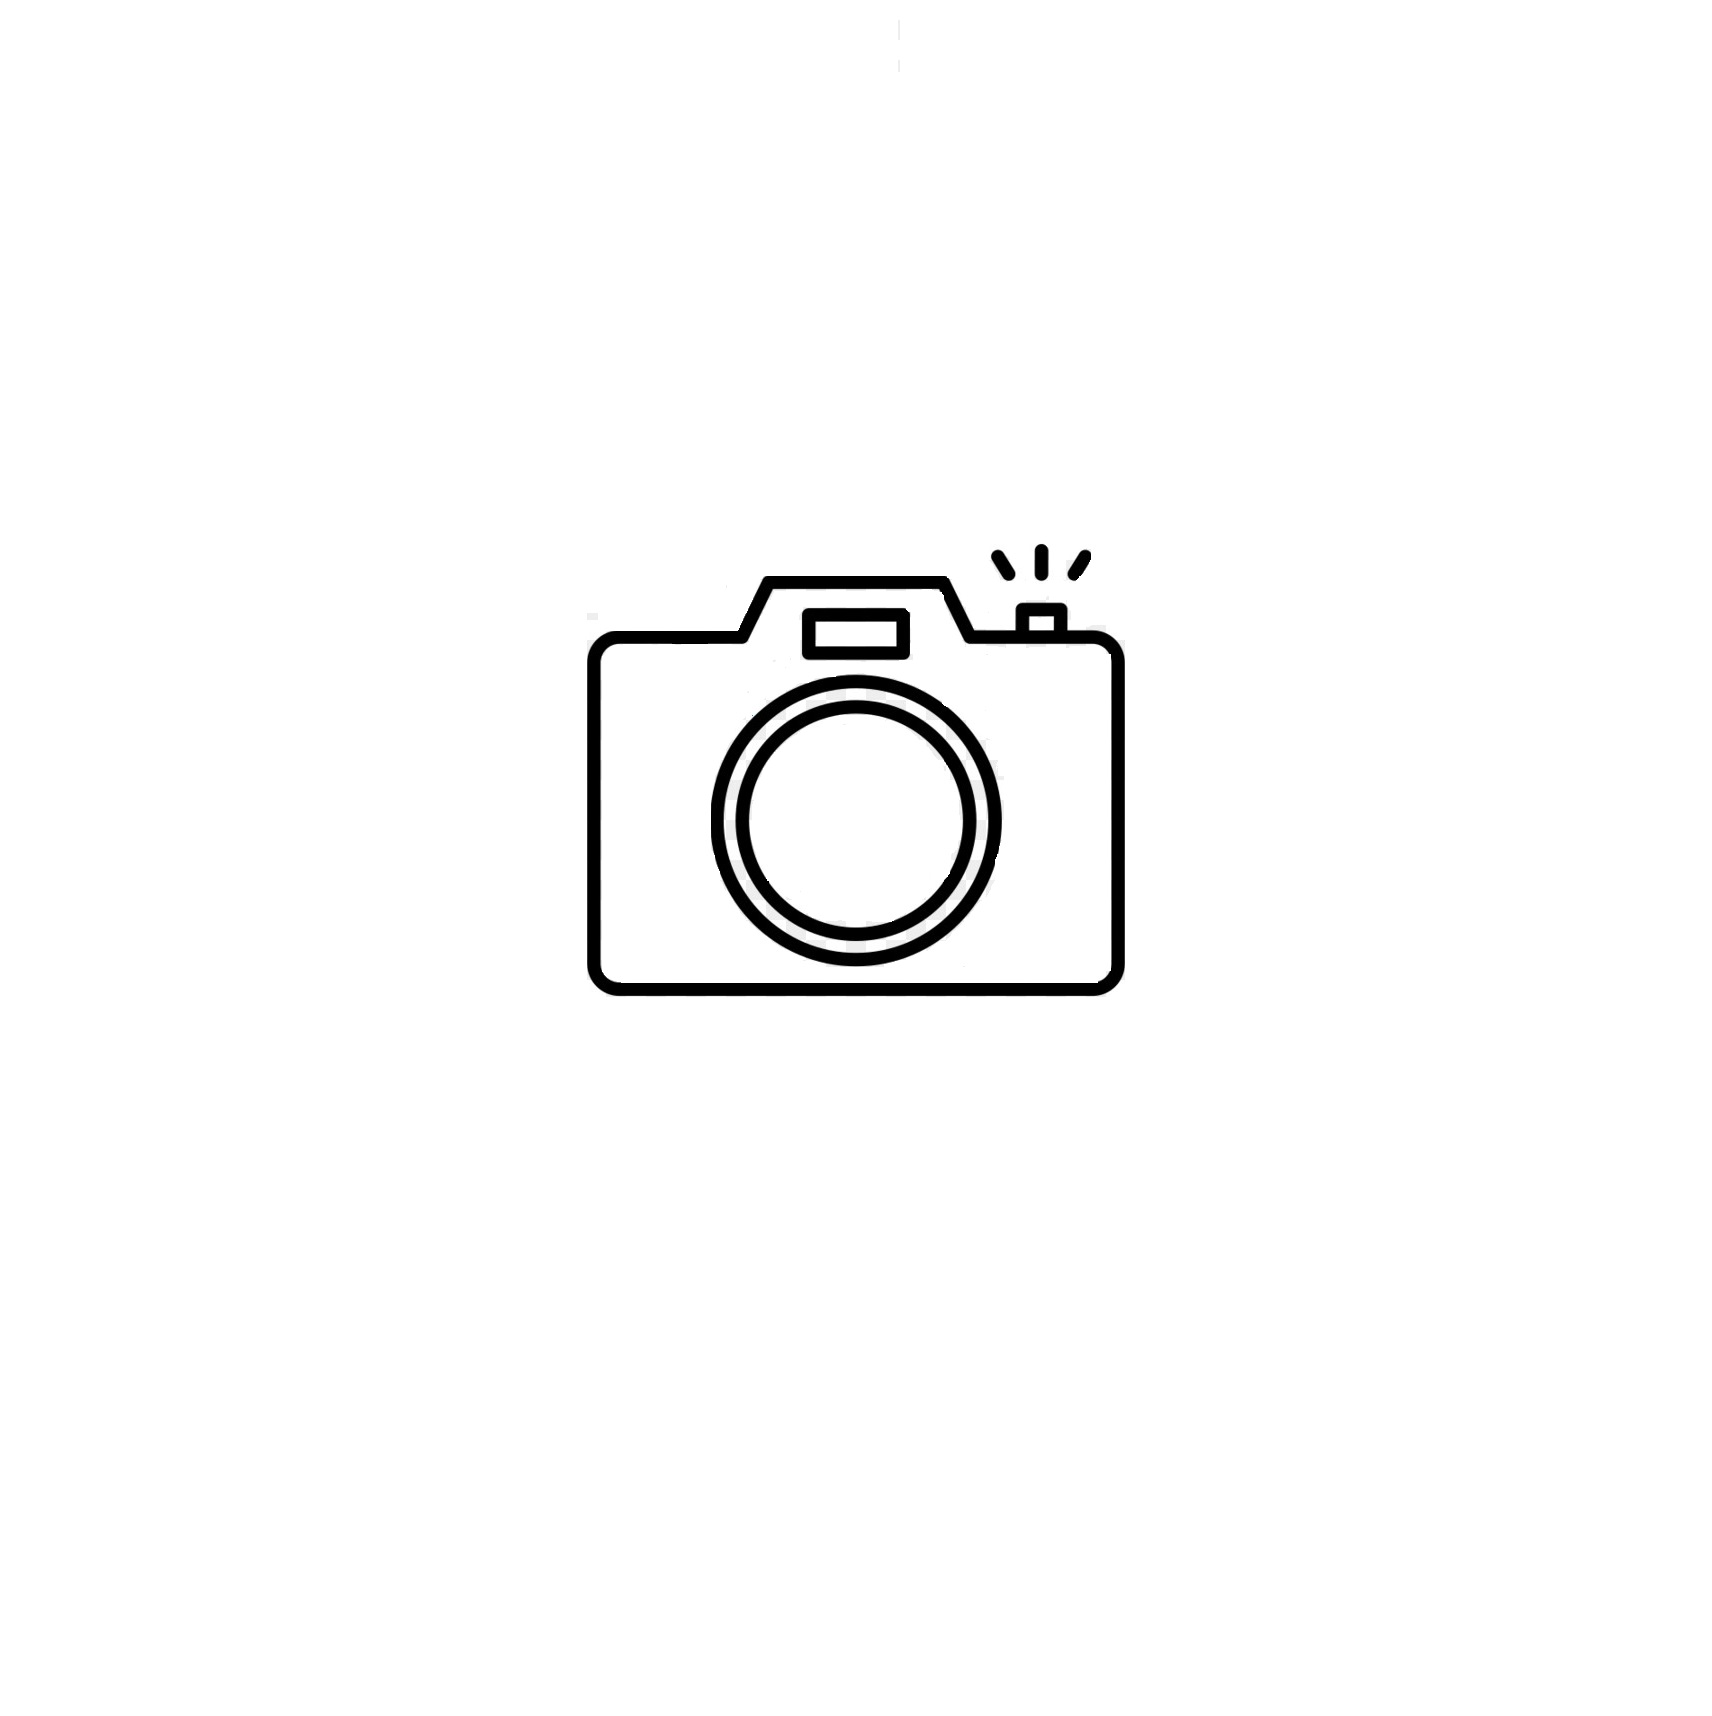
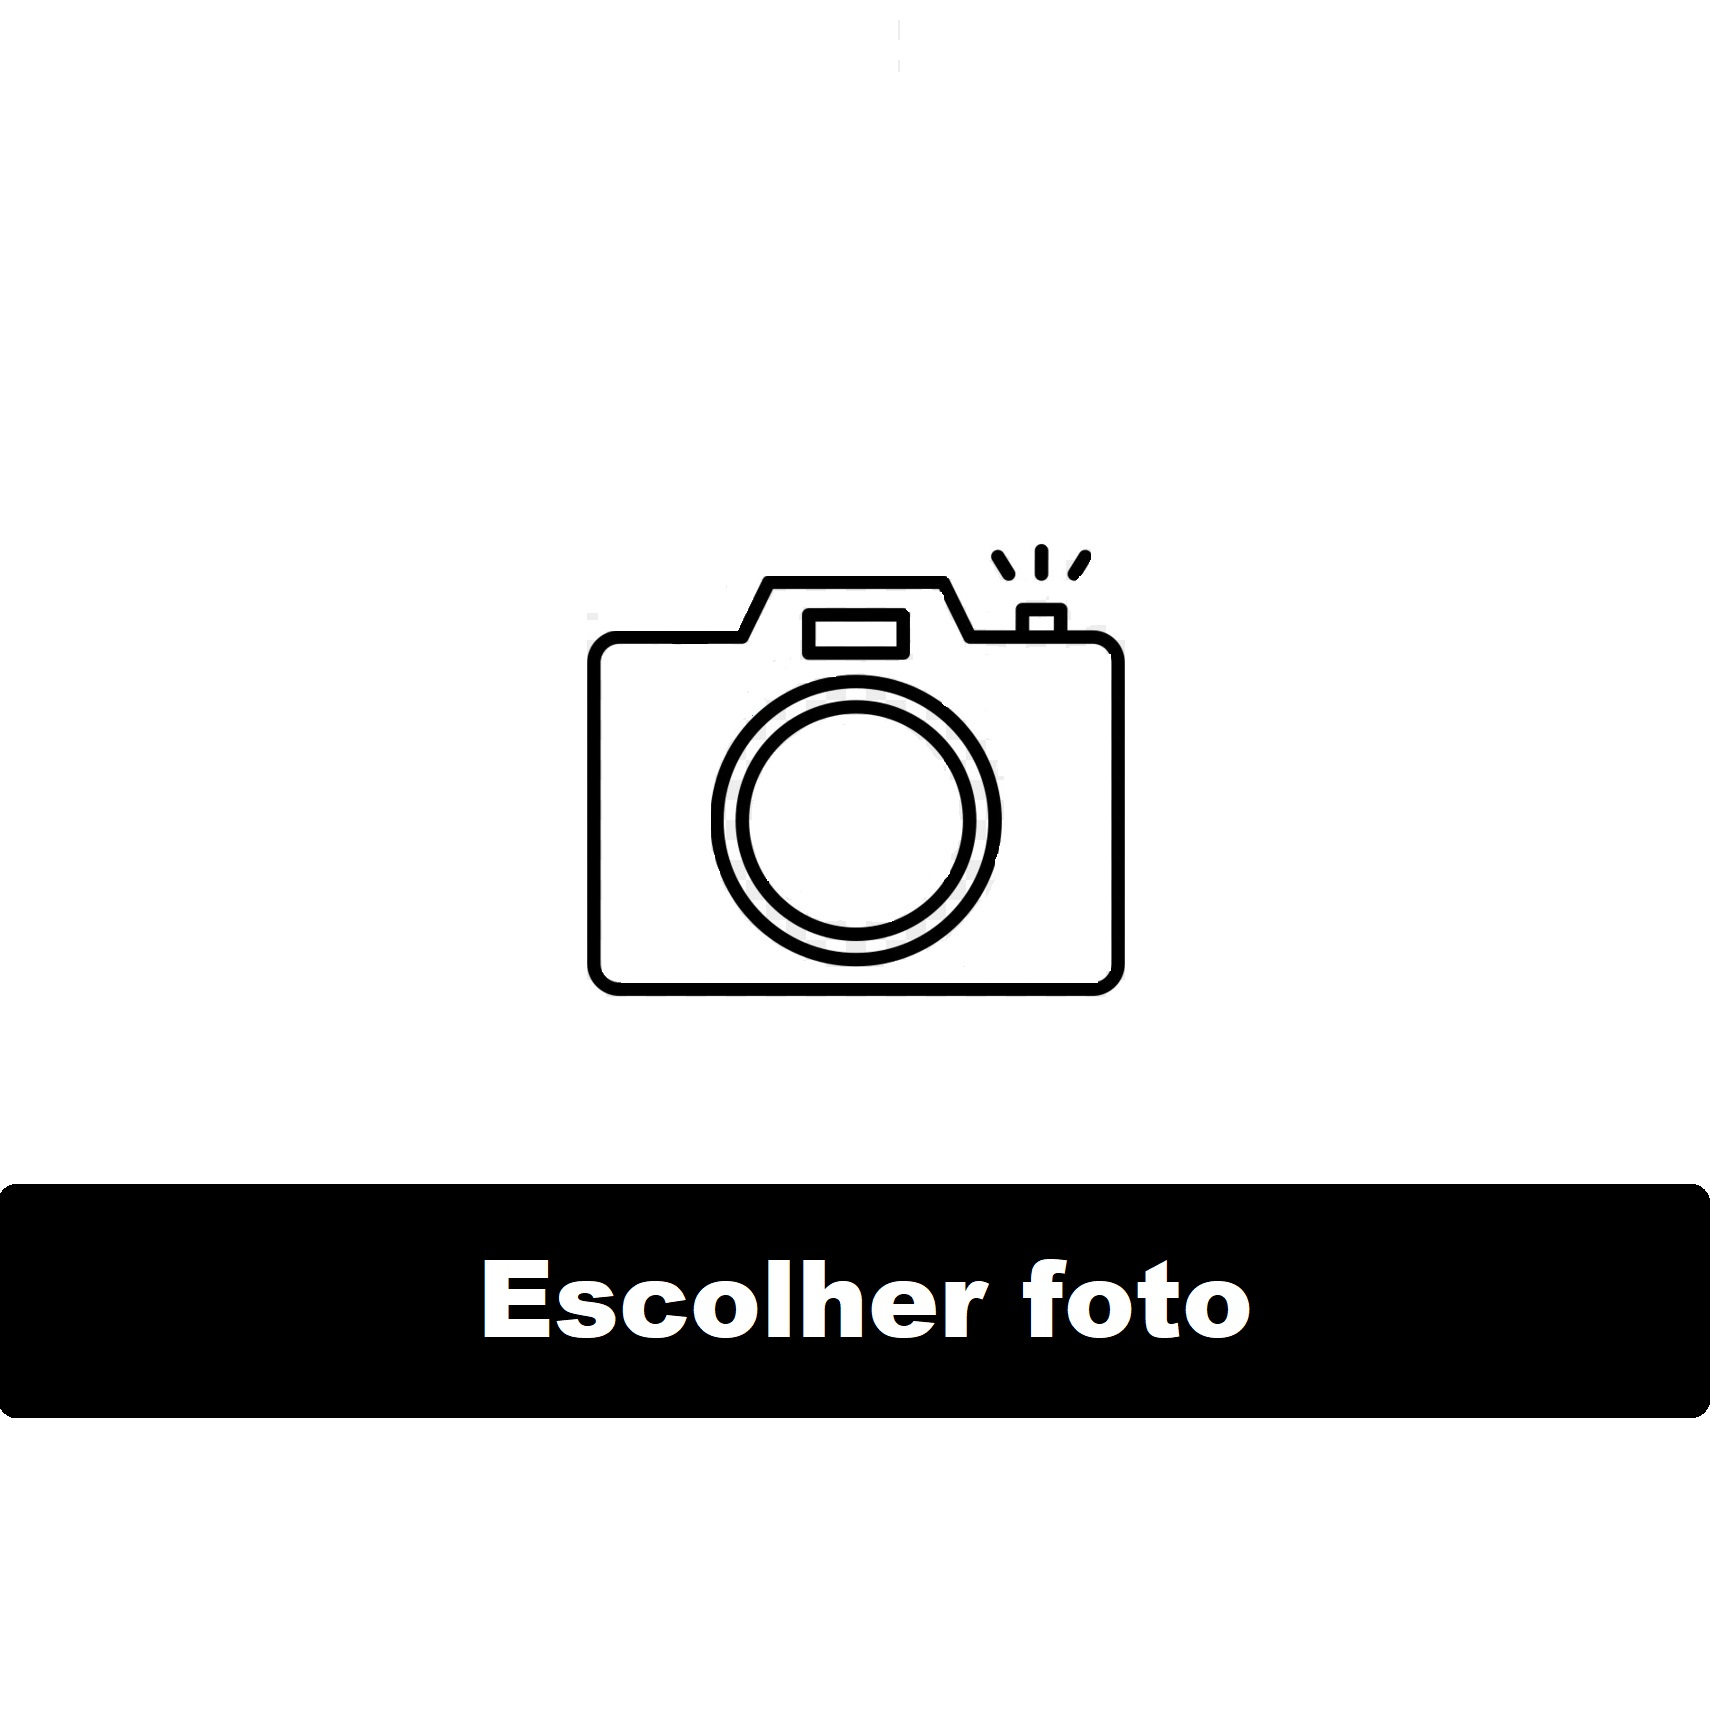
OH

Changed region(s): [[0.0, 0.6795, 1.0, 0.8339]]

diff --git a/media/css/style.css b/media/css/style.css
@@ -2066,14 +2066,11 @@ footer .credits {
   position: absolute;
   opacity: 0;
   transition: all 0.4s;
-  /*margin-top: -370px !important;*/
+  padding-right: 15px;
 }
 
-.profile-img .file input {
-  position: absolute;
-  opacity: 0;
-  right: 0;
-  top: 0;
+.input_foto {
+  display: none !important;
 }
 
 

diff --git a/media/js/perfil.js b/media/js/perfil.js
@@ -6,6 +6,7 @@ function foto() {
 
 }
 
+
 function tirar_foto() {
 
 	var foto = document.querySelector('.camera');

diff --git a/classes/perfil.class.php b/classes/perfil.class.php
@@ -116,17 +116,19 @@ class Perfil extends Site {
 		if (!isset($_POST['Fuma']) || $_POST['Fuma'] == $_SESSION['dados']['Fuma']) {
 			if ($_SESSION['dados']['Fuma'] == NULL) {
 				$this->Fuma = "DEFAULT";
-			}			
-			$this->Fuma = $_SESSION['dados']['Fuma'];
+			}else {			
+				$this->Fuma = $_SESSION['dados']['Fuma'];
+			}
 		} else {
-			$this->Fuma = $_POST['Fuma'];			
+			$this->Fuma = $_POST['Fuma'];	
 		}
 
 		if (!isset($_POST['Aceita_fumar']) || $_POST['Aceita_fumar'] == $_SESSION['dados']['Aceita_fumar']) {
 			if ($_SESSION['dados']['Aceita_fumar'] == NULL) {
 				$this->Aceita_fumar = "DEFAULT";
+			}else {
+				$this->Aceita_fumar = $_SESSION['dados']['Aceita_fumar'];
 			}
-			$this->Aceita_fumar = $_SESSION['dados']['Aceita_fumar'];
 		} else {
 			$this->Aceita_fumar = $_POST['Aceita_fumar'];
 		}
@@ -134,8 +136,9 @@ class Perfil extends Site {
 		if (!isset($_POST['Bebe']) || $_POST['Bebe'] == $_SESSION['dados']['Bebe']) {
 			if ($_SESSION['dados']['Bebe'] == NULL) {
 				$this->Bebe = "DEFAULT";
+			}else {
+				$this->Bebe = $_SESSION['dados']['Bebe'];
 			}
-			$this->Bebe = $_SESSION['dados']['Bebe'];
 		} else {
 			$this->Bebe = $_POST['Bebe'];
 		}
@@ -143,8 +146,9 @@ class Perfil extends Site {
 		if (!isset($_POST['Aceita_beber']) || $_POST['Aceita_beber'] == $_SESSION['dados']['Aceita_beber']) {
 			if ($_SESSION['dados']['Aceita_beber'] == NULL) {
 				$this->Aceita_beber = "DEFAULT";
+			}else {
+				$this->Aceita_beber = $_SESSION['dados']['Aceita_beber'];
 			}
-			$this->Aceita_beber = $_SESSION['dados']['Aceita_beber'];
 		} else {
 			$this->Aceita_beber = $_POST['Aceita_beber'];
 		}
@@ -152,8 +156,9 @@ class Perfil extends Site {
 		if (!isset($_POST['Tem_animal']) || $_POST['Tem_animal'] == $_SESSION['dados']['Tem_animal']) {
 			if ($_SESSION['dados']['Tem_animal'] == NULL) {
 				$this->Tem_animal = "DEFAULT";
+			}else {
+				$this->Tem_animal = $_SESSION['dados']['Tem_animal'];
 			}
-			$this->Tem_animal = $_SESSION['dados']['Tem_animal'];
 		} else {
 			$this->Tem_animal = $_POST['Tem_animal'];
 		}
@@ -161,8 +166,9 @@ class Perfil extends Site {
 		if (!isset($_POST['Aceita_animais']) || $_POST['Aceita_animais'] == $_SESSION['dados']['Aceita_animais']) {
 			if ($_SESSION['dados']['Aceita_animais'] == NULL) {
 				$this->Aceita_animais = "DEFAULT";
+			}else {
+				$this->Aceita_animais = $_SESSION['dados']['Aceita_animais'];
 			}
-			$this->Aceita_animais = $_SESSION['dados']['Aceita_animais'];
 		} else {
 			$this->Aceita_animais = $_POST['Aceita_animais'];
 		}
@@ -170,8 +176,9 @@ class Perfil extends Site {
 		if (!isset($_POST['Trabalha']) || $_POST['Trabalha'] == $_SESSION['dados']['Trabalha']) {
 			if ($_SESSION['dados']['Trabalha'] == NULL) {
 				$this->Trabalha = "DEFAULT";
+			}else {
+				$this->Trabalha = $_SESSION['dados']['Trabalha'];
 			}
-			$this->Trabalha = $_SESSION['dados']['Trabalha'];
 		} else {
 			$this->Trabalha = $_POST['Trabalha'];
 		}
@@ -179,8 +186,9 @@ class Perfil extends Site {
 		if (!isset($_POST['Estuda']) || $_POST['Estuda'] == $_SESSION['dados']['Estuda']) {
 			if ($_SESSION['dados']['Estuda'] == NULL) {
 				$this->Estuda = "DEFAULT";
+			}else {
+				$this->Estuda = $_SESSION['dados']['Estuda'];
 			}
-			$this->Estuda = $_SESSION['dados']['Estuda'];
 		} else {
 			$this->Estuda = $_POST['Estuda'];
 		}
@@ -220,23 +228,14 @@ class Perfil extends Site {
 			// Recendo as informações para salvar
 
 			 // Instância uma classe para o upload
-			if (isset($_FILES['arquivos'])) {
+			if ($_FILES['arquivos']['name'][0] <> "") {
 				$upload = new Uploader('arquivos');
 				$uploads = $upload->upload();
 				$uploads = $uploads[0]['dados']['nome_novo'];
 
-
-				if ($_FILES['arquivos']['name'][0] == null || $_FILES['arquivos']['name'][0] == $_SESSION['dados']['Foto']) {
-					if ($_SESSION['dados']['Foto'] == null) {
-						$this->foto = "Foto = null";
-					} else {
-						$this->foto = "Foto = '".$_SESSION['dados']['Foto']."'";
-					}
-				} else {
-			        // Foto perfil
-					$this->foto = "Foto = '".$uploads."'";
-				}
-
+				$this->foto = "Foto = '".$uploads."'";
+			} else {
+				$this->foto = "Foto = '".$_SESSION['dados']['Foto']."'";
 			}
 
 
@@ -251,11 +250,26 @@ class Perfil extends Site {
 			    // Dados pessoais
 			$this->sql = "UPDATE dados_usuario SET Nome = '$this->nome', $this->foto, Email = '$this->email', Senha = '$this->senha', Telefone = $this->telefone, Celular = $this->celular, Sexo = '$this->sexo', Fk_estado = '$this->estado', Fk_cidade = '$this->cidade', Data_nascimento = '$this->data_nascimento', Descricao = '$this->descricao', Fuma = $this->Fuma, Aceita_fumar = $this->Aceita_fumar, Bebe = $this->Bebe, Aceita_beber = $this->Aceita_beber, Tem_animal = $this->Tem_animal, Aceita_animais = $this->Aceita_animais, Trabalha = $this->Trabalha, Estuda = $this->Estuda, Aceita_genero = '$this->Aceita_genero', Aceita_pagar = $this->Aceita_pagar WHERE Id = $this->id";
 
+			var_dump($this->sql);
+
 			if (mysqli_query($this->con, $this->sql)) {
+
+				if (!$_SESSION['dados']['Foto'] == null and !$_FILES['arquivos']['name'][0] == $_SESSION['dados']['Foto'] and !$_FILES['arquivos']['name'][0] == "") {
+					$this->excluir_foto();
+				}
 				$this->atualizar_session();
 			}
 
 		} 
+	}
+
+
+	private function excluir_foto() {
+
+		$Foto = $this->dados_usuario['Foto'];
+
+		unlink("media/images/fotos_usuarios/$Foto");
+
 	}
 
 

diff --git a/perfil.php b/perfil.php
@@ -45,37 +45,40 @@ $Mostrar_dados->update();
 <body>
 
   <!-- Nav Bar -->
-  <?php require_once "include/navbar.php"; ?>
+  <?php //require_once "include/navbar.php"; ?>
 
   <!-- Foto, título e formulário -->
-  <section class="intro-single margemEsquerda">
+  <form method="post" enctype="multipart/form-data">
     <div class="container">
-      <form method="post" enctype="multipart/form-data">
+      <section class="intro-single margemEsquerda">
         <div class="row">
           <div class="col-sm-4">
             <div class="title-single-box">
-              <h5 class="title-single">Oi, <?php if (isset($Mostrar_dados->dados_usuario['Nome'])) {echo (utf8_encode($Mostrar_dados->dados_usuario['Nome']));}?>!</h5>        
+              <h5 class="title-single tt">Oi, <?php if (isset($Mostrar_dados->dados_usuario['Nome'])) {echo (utf8_encode($Mostrar_dados->dados_usuario['Nome']));}?>!</h5>      
             </div>
           </div>
-          <div class="col-sm-4"></div>      
-          <div id="foto" class="col-sm-4 tam" onmouseover="foto()" onmouseout="tirar_foto()" style="background-image: url();">
+
+
+          <div class="col-sm-4"></div> 
+
+          <div id="foto" class="col-sm-4 tam" onmouseover="foto()" onmouseout="tirar_foto()">
             <img src= "<?php if ($Mostrar_dados->dados_usuario['Foto'] <> null and $Mostrar_dados->dados_usuario['Foto'] <> '') {echo 'media/images/fotos_usuarios/'.$Mostrar_dados->dados_usuario['Foto'];} else {echo 'media/images/fotos_usuarios/113883563.jpg';}?>" class="rounded float-right img-fluid" alt="<?php if (isset($Mostrar_dados->dados_usuario['Nome'])) {echo $Mostrar_dados->dados_usuario['Nome'];} ?>">
 
-            <div class="camera">
-              <center><img src="media/images/camera.jpg" height="210" width="100%">
-              <div class="profile-img">            
-                <div class="EnviarFoto file btn btn-sm btn-primary">           
-                  Escolha sua foto
-                  <input type="file" name="arquivos[]" id="arquivos" multiple="" >
+            <div class="camera">             
+              <center>
+                <div class="profile-img">
+                  <label style="cursor: pointer;" for="arquivos"><img src="media/images/camera.jpg" width="100%"></label>
+                  <input type="file" class="input_foto" name="arquivos[]" id="arquivos" multiple="" >
                 </div>
-              </div>
               </center>
             </div>
 
           </div>
+
+
         </div>
-      </div>
-    </section>
+      </section>
+    </div>
 
     <!-- Container principal perfil -->
     <section class="margemEsquerda">
@@ -299,7 +302,7 @@ $Mostrar_dados->update();
 
               <div class="row mb-4">                
                 <div class="col-md-12">
-                  <label>Se não marcar nenhuma das opções será considerado que não se importa</label>
+                  <label>Por favor marque todas as opções para que a sua busca de perfil possa ocorrer sem futuros erros.</label>
                 </div>
               </div>
 
@@ -483,6 +486,12 @@ $Mostrar_dados->update();
 </div>
 </div>
 
+
+
+</div>         
+</section>
+</form>  
+
 <!-- Lista dos Match's -->
 <div class="row listaMatch">
   <div class="col-sm-1">
@@ -505,10 +514,6 @@ $Mostrar_dados->update();
     </div>         
   </div>
 </div>
-
-</form>  
-</div>         
-</section>
 
 
 <!-- footer -->

diff --git a/index.php b/index.php
@@ -2,8 +2,9 @@
 
 require_once "classes/site.class.php";
 
-?>
-<!DOCTYPE html>
+$Iniciar = new Site;
+
+?><!DOCTYPE html>
 <head>
   <meta charset="utf-8">
   <title>Llama Aqui</title>
@@ -39,7 +40,7 @@ require_once "classes/site.class.php";
   <!--/ Carousel /-->
   <div class="intro intro-carousel">
     <div id="carousel" class="owl-carousel owl-theme">
-      <div class="carousel-item-a intro-item bg-image" style="background-image: url(media/images/cozinha.jpg)">
+      <div class="carousel-item-a intro-item bg-image" style="background-image: url(media/images/obra.png)"><!-- cozinha -->
         <div class="overlay overlay-a"></div>
         <div class="intro-content display-table">
           <div class="table-cell">
@@ -62,7 +63,7 @@ require_once "classes/site.class.php";
           </div>
         </div>
       </div>
-      <div class="carousel-item-a intro-item bg-image" style="background-image: url(media/images/cama.jpg)">
+      <div class="carousel-item-a intro-item bg-image" style="background-image: url(media/images/obra.png)"><!-- cama -->
         <div class="overlay overlay-a"></div>
         <div class="intro-content display-table">
           <div class="table-cell">
@@ -85,7 +86,7 @@ require_once "classes/site.class.php";
           </div>
         </div>
       </div>
-      <div class="carousel-item-a intro-item bg-image" style="background-image: url(media/images/salona.jpg)">
+      <div class="carousel-item-a intro-item bg-image" style="background-image: url(media/images/obra.png)"><!-- salona -->
         <div class="overlay overlay-a"></div>
         <div class="intro-content display-table">
           <div class="table-cell">

diff --git a/classes/cidades.php b/classes/cidades.php
@@ -1,9 +1,14 @@
 <?php
 
-CONST HOST = "llamaaqui.ml:3306";
-CONST USER = "llamaaqui";
-CONST PASS = "entra21@Blusoft";
+CONST HOST = "127.0.0.1";
+CONST USER = "root";
+CONST PASS = "";
 CONST DB   = "llamaaqu_master";
+
+// CONST HOST = "llamaaqui.ml:3306";
+// CONST USER = "llamaaqui";
+// CONST PASS = "entra21@Blusoft";
+// CONST DB   = "llamaaqu_master";
 
 $con = mysqli_connect(HOST, USER, PASS, DB);
 
